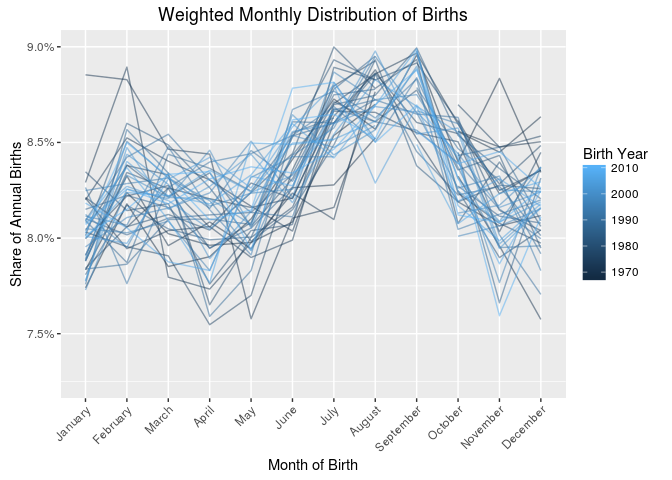
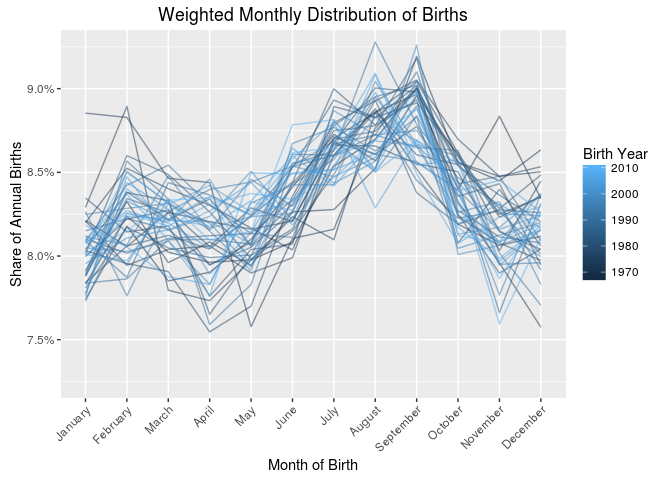
Adding modifications to study

diff --git a/studies/SeasonalVolumes.md b/studies/SeasonalVolumes.md
@@ -5,11 +5,11 @@
 
 
 ```r
+library(vitalstatistics)
 library(dplyr)
 library(data.table)
 library(lubridate)
 library(ggplot2)
-library(vitalstatistics)  # load the package that this study is part of
 ```
 
 # Summary
@@ -44,11 +44,18 @@ births %>% group_by(month_date) %>%
 
 ![](SeasonalVolumes_files/figure-html/unnamed-chunk-1-1.png)<!-- -->
 
-In general we see an increase in the overall volume of births occuring in the US, wth a flattening of the overall pattern in the 90's and 00's. The reader may also notice an annually recurring pattern, with one broad spike occuring in each year. This can be made more clear by overplotting each year of data that we have on a month-by-month basis as a percentage of births for the entire year that occured in each month.
+In general we see an increase in the overall volume of births occuring in the US, with a flattening of the overall pattern in the 90's and 00's. The reader may also notice an annually recurring pattern, with one broad spike occuring in each year. This can be made more clear by overplotting each year of data that we have on a month-by-month basis as a percentage of births for the entire year that occured in each month.
 
 
 ```r
-births_monthly_share = births %>% 
+mlab = data.table(month_key = seq(ymd(19010101), ymd(19011231), by="months")) %>%
+    mutate(
+        mid = month(month_key),
+        mdays = days_in_month(month_key),
+        ypos = (mdays - 28) * 0.001 + 0.075
+    )
+
+births_monthly = births %>% 
     group_by(DOB_YY, DOB_MM, month_date) %>%
     summarize(cases = sum(cases)) %>%
     group_by(DOB_YY) %>%
@@ -56,140 +63,105 @@ births_monthly_share = births %>%
         annual_cases = sum(cases),
         annual_share = cases / annual_cases,
         leap_month = ifelse(leap_year(DOB_YY) & DOB_MM == 'February', annual_share, NA)
-        )
-
-day_counter = data.table(MM = 1:12) %>% 
-    mutate(
-        days = (ymd(19010101) + months(1:12) - (ymd(19010101) + months(0:11))) %>% days %>% .@day,
-        ypos = (days - 28) * 0.001 + 0.075
     )
 
-ggplot(births_monthly_share, aes(DOB_MM, annual_share, group=DOB_YY)) +
-    ggtitle("Monthly Distribution of Births") +
-    geom_line(aes(color=DOB_YY), alpha=0.5) + scale_color_continuous(name="Birth Year") +
-    geom_point(aes(y=leap_month, shape="Leap Month"), na.rm=TRUE) + scale_shape_discrete(name=NULL) +
-    ylab("Share of Annual Births") + 
-    scale_y_continuous(labels=scales::percent, limits=c(0.0725, 0.090)) +
-    xlab("Month of Birth") + theme(axis.text.x = element_text(angle=45, hjust=1)) +
-    geom_text(data=day_counter, aes(x=MM, y=ypos, group=NULL, label=days), color="red", vjust=3) +
-    annotate("text", x=4, y=0.09, label="text denotes number of days in a month", color="red")
-```
-
-```
-## Warning: Removed 1 rows containing missing values (geom_path).
+births_monthly%>%
+    ggplot(aes(DOB_MM, annual_share, group=DOB_YY)) +
+        coord_cartesian(ylim=c(0.0725, 0.0925)) +
+        ggtitle("Monthly Distribution of Births") +
+        xlab("Month of Birth") + 
+        theme(axis.text.x = element_text(angle=45, hjust=1)) +
+        ylab("Share of Annual Births") + 
+        scale_y_continuous(labels=scales::percent) +
+        geom_line(aes(color=DOB_YY), alpha=0.5) + 
+            scale_color_continuous(name="Birth Year") +
+        geom_point(aes(y=leap_month, shape="Leap Month"), na.rm=TRUE) + 
+            scale_shape_discrete(name=NULL) +
+        geom_text(data=mlab, aes(x=mid, y=ypos, group=NULL, label=mdays), color="red", vjust=3) +
+        annotate("text", x=4, y=0.09, label="text denotes number of days in a month", color="red")
 ```
 
 ![](SeasonalVolumes_files/figure-html/unnamed-chunk-2-1.png)<!-- -->
 
 There is an artifact (i.e. noise) caused by the way that the Julian calendar works which is made clear in this graphic. The To help illustrate the point, we've plotted the number of days in each month in red (we show February as 28 although there are some years with 29 days, which have been denoted). This allows us to very easily see that the proportional number of births in each month vary according to the number of days. This makes a great deal of sense; months are not equal interval units, and there is little reason to believe that the population would somehow coordinate an equal distribution of birth across each month. The theory that this pattern is a result of the varying number of days in a month - rather than th result of a different confounding factor which operates on alternating months - is supported by the fact that the dip in proportional rates are less or even reversed in July and Auguest where two 31 days months are back to back, as well as by the more severe dip in February, which is somewhat muted during leap years.
 
-Clearly, in order to identify other patterns in our data that might be driven by factors related to time, we first need to control for the effect of the varying number of days in each month. Our solution is to weight the count of births so that each month is treated as if it's an equal interval. This is accomplished by calculating the share of days in that month (e.g. `30/365`) for the year, as a proportion of months in the year (e.g.`(1/12) / (30/365)`). 
+Clearly, in order to identify other patterns in our data that might be driven by factors related to time, we first need to control for the effect of the varying number of days in each month. Our solution is to weight the count of births so that each month is treated as if it's an equal interval. This is accomplished by calculating the share of days in that month (e.g. `30/365`) for the year, as a proportion of months in the year (e.g.`(1/12) / (30/365)`).
+
+We have commited this function as part of this package
 
 
 ```r
-dim_month_calendar = 
-    births_monthly_share %>% group_by %>%
-        transmute(
-            mc_date = month_date,
-            mc_year = DOB_YY,
-            mc_month = DOB_MM,
-            mc_year_days = ymd(paste0(DOB_YY,"0101")),
-            mc_year_days = (mc_year_days + years(1) - mc_year_days) %>% days %>% .@day,
-            mc_month_days = ymd(paste0(DOB_YY, DOB_MM, "01")),
-            mc_month_days = (mc_month_days + months(1) - mc_month_days) %>% days %>% .@day,
-            mc_artifact_volume_wgt =  (1/12) / (mc_month_days / mc_year_days),
-
-            annual_births_share = annual_share,
-            annual_births_share_wtd = annual_births_share * mc_artifact_volume_wgt
-        )
+cmaw
 ```
-We create a dimension table where `month_date` acts as our key, with weighting values calculated for
-each month that exists in our births data set. These can be applied to any analysis of volume that
-we perform on a monthly basis to mute the noise caused by calendar month artifacts. We do so with
-an inner join, and a simple mutation of the annual share calculation.
+
+```
+## function(month_date) {
+##     if(!lubridate::is.Date(month_date)) {
+##         stop("You did not pass a value that lubridate recognizes as a date")
+##     }
+## 
+##     (1/12) / 
+##         (lubridate::days_in_month(month_date) / ifelse(lubridate::leap_year(month_date), 366, 365))
+## }
+## <environment: namespace:vitalstatistics>
+```
+An now we apply that weight to our volumes.
 
 
 ```r
-p = dim_month_calendar %>%
-    ggplot(aes(mc_month, annual_births_share_wtd, group=mc_year)) +
+p = births_monthly %>%
+    ggplot(aes(DOB_MM, annual_share * cmaw(month_date), group=DOB_YY)) + 
+        coord_cartesian(ylim=c(0.0725, 0.0925)) +
         ggtitle("Weighted Monthly Distribution of Births") +
         ylab("Share of Annual Births") + 
-        scale_y_continuous(labels=scales::percent, limits=c(0.0725, 0.090)) +
+        scale_y_continuous(labels=scales::percent) +
         xlab("Month of Birth") + theme(axis.text.x = element_text(angle=45, hjust=1))
 
-p + geom_line(aes(color=mc_year), alpha=0.5) + scale_color_continuous(name="Birth Year")
+p + geom_line(aes(color=DOB_YY), alpha=0.5) + scale_color_continuous(name="Birth Year")
 ```
 
 ![](SeasonalVolumes_files/figure-html/unnamed-chunk-4-1.png)<!-- -->
 
-We can see that the monthly oscillations are much more muted, and that we've successfully muted muted some of the noise in our data.
+We can see that the monthly oscillations are much more smooth, and that we've successfully muted some of the noise in our data.
 
 ## Seasonal Trends
 After removing the oscillations caused by varying length months, it's clear that there's still a strong pattern related to date. There's an increasing share of births that occur from January onward, until the peak in August, which drops dramatically until January of the next year. We can help the eye somewhat with the overplotting of all these different years by using boxplots.
 
 
 ```r
-p + geom_boxplot(aes(group=mc_month)) +
+p + geom_boxplot(aes(group=DOB_MM)) +
     geom_hline(yintercept = 1/12, size=0.10, linetype=2)
-```
-
-```
-## Warning: Removed 16 rows containing non-finite values (stat_boxplot).
 ```
 
 ![](SeasonalVolumes_files/figure-html/unnamed-chunk-5-1.png)<!-- -->
 
 In addition to the boxplots we include a horizontal line at 8.33%, which shows us where the mean of each boxplot should lie if there were no differences in the share of births that occur in each month after adjusting for calendar artifacts. 
 
-We use a linear regression model to calculate a new weight to account for the seasonal peak that
-occurs in the second quarter of the year.
+We can use some of the time-series tools included with R to decompose the data and attempt to isolate the seasonal pattern.
 
 
 ```r
-dim_month_calendar$mc_seasonal_volume_wgt = 
-    ((1/12) / lm(annual_births_share_wtd ~ mc_month, dim_month_calendar)$fitted.values)
+seas = births_monthly %>% group_by %>%
+    transmute(cases = cases * cmaw(month_date)) %>%
+    ts(frequency=12, start=1968) %>%
+    decompose(type="multiplicative")
 
-dim_month_calendar = dim_month_calendar %>%
-    mutate(annual_births_share_wtd = 
-               annual_births_share * mc_artifact_volume_wgt * mc_seasonal_volume_wgt
-           )
+plot(seas)
 ```
 
+![](SeasonalVolumes_files/figure-html/unnamed-chunk-6-1.png)<!-- -->
+
+Which provides us with a seasonal adjustment factor that we can apply as another weight in addition to `cmaw`.
 
 
 ```r
-ggplot(dim_month_calendar,aes(mc_month, annual_births_share_wtd, group=mc_year)) +
-    ggtitle("Weighted Monthly Distribution of Births") +
-    ylab("Share of Annual Births") + 
-    scale_y_continuous(labels=scales::percent, limits=c(0.0725, 0.090)) +
-    xlab("Month of Birth") + theme(axis.text.x = element_text(angle=45, hjust=1)) + 
-    geom_line(aes(color=mc_year)) + scale_color_continuous(name="Birth Year")
-```
-
-```
-## Warning: Removed 1 rows containing missing values (geom_path).
-```
-
-![](SeasonalVolumes_files/figure-html/unnamed-chunk-7-1.png)<!-- -->
-
-Prune intermediate fields to make the table more of a dimension.
-
-
-```r
-dim_month_calendar = select(dim_month_calendar, mc_date , starts_with('mc_'))
-```
-
-
-
-```r
-births %>%
-    inner_join(dim_month_calendar, by=c('month_date' = 'mc_date')) %>%
-    mutate(cases_wtd = cases * mc_seasonal_volume_wgt * mc_artifact_volume_wgt) %>%
+births %>% 
+    mutate(cases_seas_adj = (cases * cmaw(month_date)) / seas$figure[DOB_MM]) %>%
     group_by(month_date) %>%
-    summarize(cases_wtd = sum(cases_wtd)) %>%
-    ggplot(aes(month_date, cases_wtd)) +
+    summarize(cases_seas_adj = sum(cases_seas_adj)) %>%
+    ggplot(aes(month_date, cases_seas_adj)) +
         geom_line(stat="identity") +
         geom_smooth()
 ```
 
-![](SeasonalVolumes_files/figure-html/unnamed-chunk-9-1.png)<!-- -->
+![](SeasonalVolumes_files/figure-html/unnamed-chunk-7-1.png)<!-- -->

diff --git a/studies/README.md b/studies/README.md
@@ -1,0 +1,8 @@
+# Markdowns
+This folder contains the various markdown products that are meant to serve as polished content for consumption by readers. This contains both `.Rmd` as well as `.md` files where appropriate. If viewing this content on _GitHub_, the `.md` files will render correctly within the browser. We recommend using this README directory file to navigate to your desired document, as it will help you select the correct file types for viewing.
+
+
+# Directory
+
+## [Seasonal Volumes](SeasonalVolume.md)
+A analysis and modeling exercise at trends in birth volumes related to calendar artifacts, and seasonal variations.
